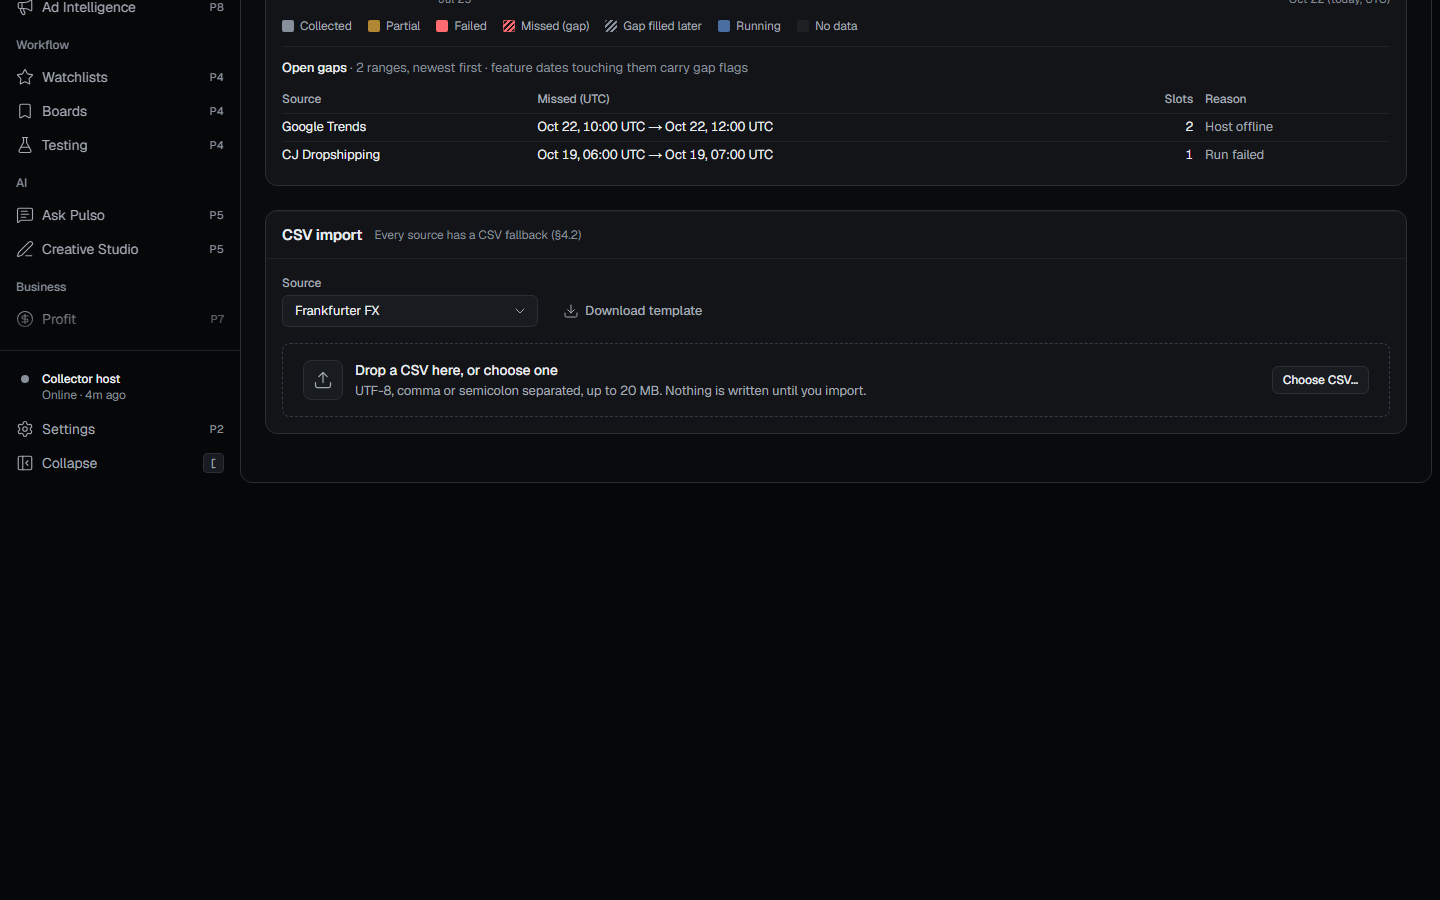
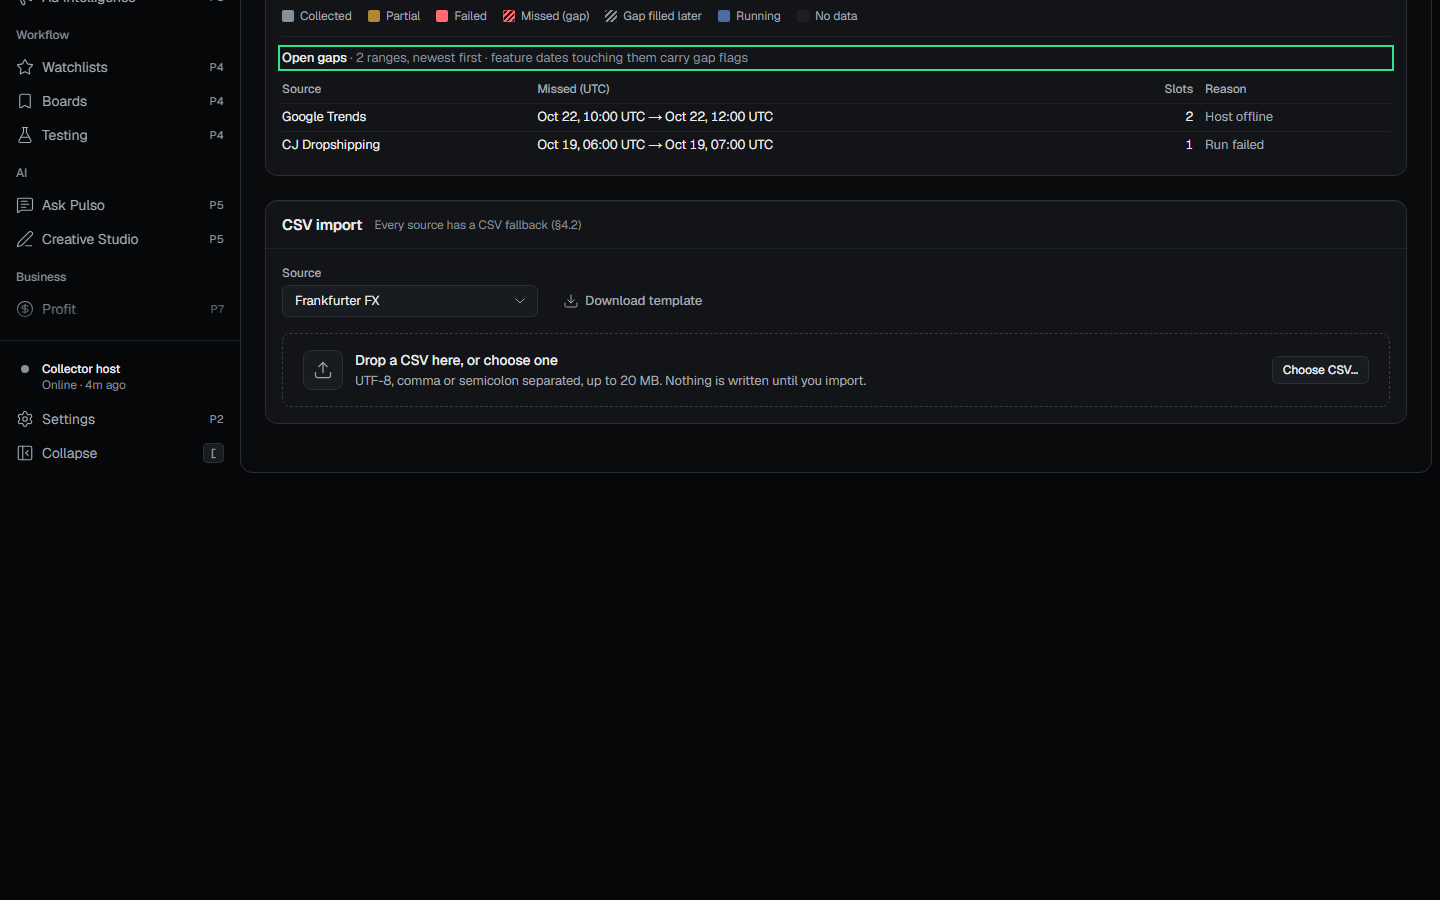
test(web): imp-147 e2e jumps through imp-124's #open-gaps target and Overdue link; screenshots re-captured on main

diff --git a/apps/web/e2e/shell-scroll.spec.ts b/apps/web/e2e/shell-scroll.spec.ts
@@ -3,9 +3,9 @@ import { expect, test, type Page } from "@playwright/test";
 import { mockAdminApi } from "./data-health/fixtures";
 
 // imp-147: at lg the shell is one viewport tall and only <main> scrolls. Absolutely positioned boxes with no
-// positioned ancestor (the import panel's sr-only live regions) used to escape main's overflow and make the
-// document 1,309 px tall at 1440×900, so a fragment jump near the page end scrolled the document too and pushed
-// the whole shell up. The document must stay one viewport tall, and a jump must scroll main only.
+// positioned ancestor (the CSV panel's sr-only live regions) used to escape main's overflow and make the document
+// 1,319 px tall at 1440×900, so a fragment jump to #open-gaps scrolled the document too and pushed the whole shell
+// up 419 px. The document must stay one viewport tall, and a jump must scroll main only.
 
 const docSize = (page: Page) =>
   page.evaluate(() => ({ scrollHeight: document.documentElement.scrollHeight, scrollWidth: document.documentElement.scrollWidth, scrollY }));
@@ -27,26 +27,31 @@ for (const path of ["/admin/data-health", "/"]) {
   });
 }
 
+const jumps: [string, (page: Page) => Promise<unknown>][] = [
+  ["a native #open-gaps fragment jump", (page) => page.evaluate(() => (location.hash = "open-gaps"))],
+  ["the Overdue note's Open gaps link", (page) => page.getByRole("link", { name: /\(in Open gaps\)$/ }).locator("visible=true").click()],
+];
+
 for (const [width, height] of [
   [1440, 900],
   [375, 812],
 ] as const) {
-  test(`a fragment jump to Open gaps scrolls main, not the shell, at ${width}`, async ({ page }) => {
-    await page.setViewportSize({ width, height });
-    await openDataHealth(page);
-    const topbar = page.getByRole("banner");
-    const before = (await topbar.boundingBox())!.y;
-    const heading = page.getByRole("heading", { name: /^Open gaps/ });
-    // What a native #fragment jump does: scroll every scrollable ancestor, the document included, to the target.
-    await heading.evaluate((el) => el.scrollIntoView({ block: "start" }));
+  for (const [name, jump] of jumps) {
+    test(`${name} scrolls main, not the shell, at ${width}`, async ({ page }) => {
+      await page.setViewportSize({ width, height });
+      await openDataHealth(page);
+      const topbar = page.getByRole("banner");
+      const before = (await topbar.boundingBox())!.y;
+      await jump(page);
 
-    await expect(heading).toBeInViewport();
-    expect((await topbar.boundingBox())!.y).toBe(before);
-    const size = await docSize(page);
-    expect(size.scrollWidth).toBe(width);
-    if (width === 1440) {
-      expect(size).toMatchObject({ scrollHeight: height, scrollY: 0 });
-      expect(await page.locator("main").evaluate((el) => el.scrollTop)).toBeGreaterThan(0);
-    }
-  });
+      await expect(page.locator("#open-gaps")).toBeInViewport();
+      expect((await topbar.boundingBox())!.y).toBe(before);
+      const size = await docSize(page);
+      expect(size.scrollWidth).toBe(width);
+      if (width === 1440) {
+        expect(size).toMatchObject({ scrollHeight: height, scrollY: 0 });
+        expect(await page.locator("main").evaluate((el) => el.scrollTop)).toBeGreaterThan(0);
+      }
+    });
+  }
 }

diff --git a/apps/web/e2e/shell-scroll-screenshots.spec.ts b/apps/web/e2e/shell-scroll-screenshots.spec.ts
@@ -22,7 +22,7 @@ for (const theme of ["dark", "light"] as const) {
       await expect(heading).toBeVisible();
       await expect(page.getByRole("region", { name: "CSV import" })).toBeVisible();
       await page.evaluate(() => document.fonts.ready);
-      await heading.evaluate((el) => el.scrollIntoView({ block: "start" }));
+      await page.evaluate(() => (location.hash = "open-gaps"));
       await page.waitForTimeout(400);
       await page.screenshot({ path: `${OUT}/jump-${width}-${theme}.png` });
     });
